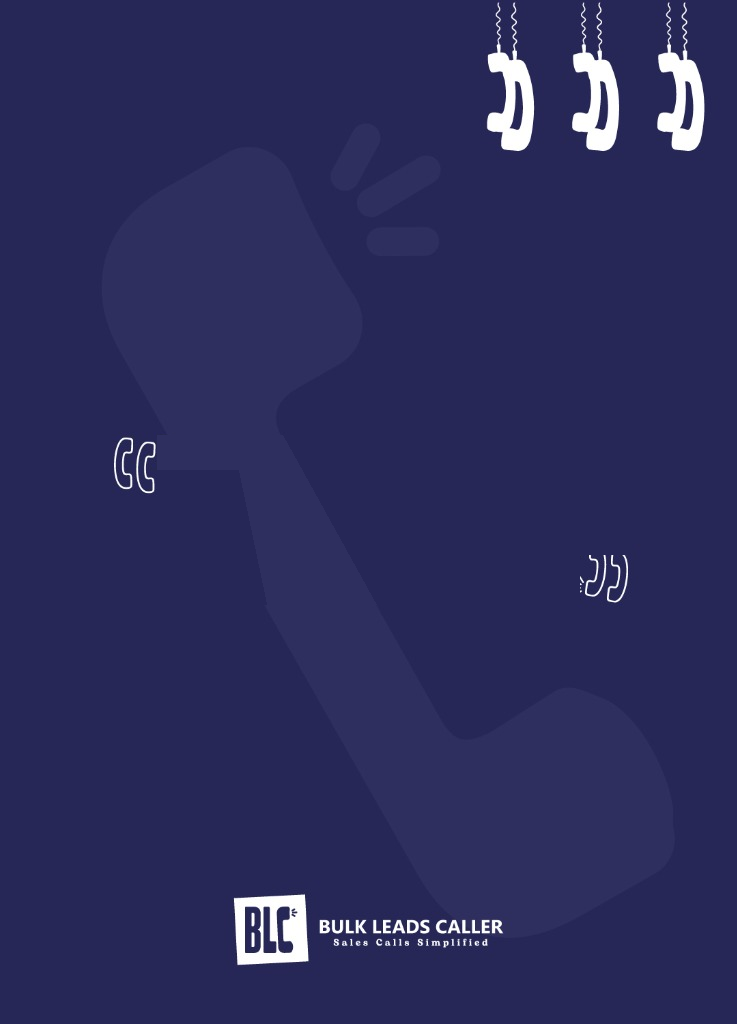
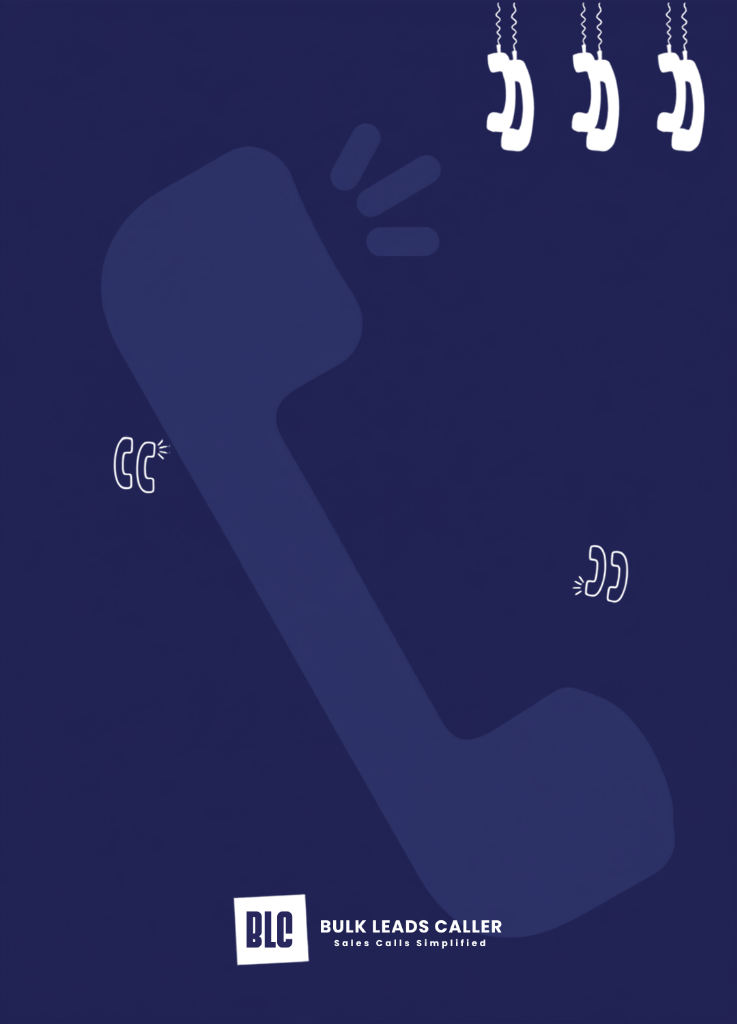
fix: replace corrupted template.png with clean version extracted from BLC_Template.pptx
- Extracted clean 737x1024 background PNG directly from PPTX embedded image
- Zero ghost text / no baked-in sample quote - completely pristine canvas
- Updated text bounding box coordinates to match PPTX TextBox2 position:
  TEXT_LEFT=175, TEXT_RIGHT=564, TEXT_TOP=439, TEXT_BOTTOM=597
  (derived from PPTX 1.823/4.583 inches @ 96 dpi scale)
- Added TEXT_CENTER_Y constant for cleaner vertical centering
- All previous pixel-painting attempts retired - no more inpainting needed

diff --git a/main.py b/main.py
@@ -18,15 +18,17 @@ TEMPLATE_PATH = "template.png"
 OUTPUT_IMAGE_PATH = "quote_output.png"
 HISTORY_FILE = "history.txt"
 
-# Bounding box for quote text area (between opening and closing telephone quote marks)
+# Bounding box for quote text area — derived from PPTX TextBox 2 ({{QUOTE}}) coordinates
+# PPTX TextBox pos: (1.823", 4.583"), size: (4.062" x 1.646") @ 96 dpi → 737x1024 image
 # Template image size: 737 x 1024 px
-TEXT_LEFT = 170                              # Starts directly after the top-left telephone quote icon
-TEXT_RIGHT = 570                             # Ends directly before the bottom-right telephone quote icon
-TEXT_TOP = 440
-TEXT_BOTTOM = 595
-TEXT_CENTER_X = (TEXT_LEFT + TEXT_RIGHT) // 2
-MAX_TEXT_WIDTH = TEXT_RIGHT - TEXT_LEFT      # 400 px
-MAX_TEXT_HEIGHT = TEXT_BOTTOM - TEXT_TOP     # 155 px
+TEXT_LEFT = 175
+TEXT_RIGHT = 564
+TEXT_TOP = 439
+TEXT_BOTTOM = 597
+TEXT_CENTER_X = (TEXT_LEFT + TEXT_RIGHT) // 2   # = 369
+TEXT_CENTER_Y = (TEXT_TOP + TEXT_BOTTOM) // 2   # = 518
+MAX_TEXT_WIDTH = TEXT_RIGHT - TEXT_LEFT          # 389 px
+MAX_TEXT_HEIGHT = TEXT_BOTTOM - TEXT_TOP         # 158 px
 
 
 def get_previous_quotes(history_path=HISTORY_FILE):
@@ -231,7 +233,7 @@ def render_quote_image(quote, author, template_path=TEMPLATE_PATH, output_path=O
 
     line_height = int(selected_font_size * 1.40)
     total_text_height = len(lines) * line_height
-    start_y = (TEXT_TOP + TEXT_BOTTOM) // 2 - (total_text_height // 2)
+    start_y = TEXT_CENTER_Y - (total_text_height // 2)
 
     # Render quote lines centered with natural spacing (matching exact original template)
     for i, line in enumerate(lines):
